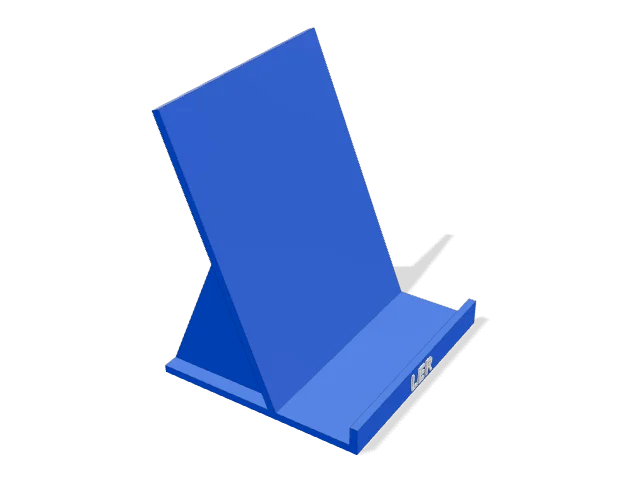
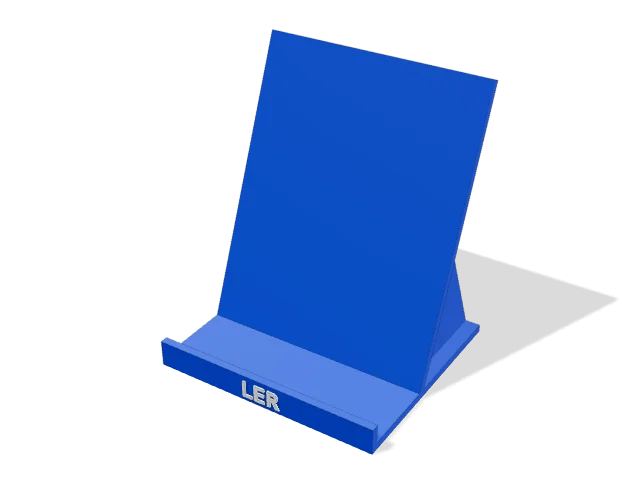
feat: modelos novos: E2E com prints, miniaturas, família Suporte de livro, CHANGELOG (#213)

diff --git a/tests/e2e/modelos-novos.e2e.ts b/tests/e2e/modelos-novos.e2e.ts
@@ -1,0 +1,91 @@
+import AxeBuilder from "@axe-core/playwright";
+import { mkdirSync } from "node:fs";
+import type { Page } from "@playwright/test";
+import { expect, go, openApp, test, toastWith } from "./tauri";
+
+const hud = (page: Page) => page.locator(".viewer .hud");
+const idle = (page: Page) => expect(page.locator(".viewer .overlay.busy")).toHaveCount(0, { timeout: 60_000 });
+const PRINTS = process.env.MODELOS_PRINTS;
+async function shot(page: Page, name: string) {
+  if (!PRINTS) return;
+  mkdirSync(PRINTS, { recursive: true });
+  await page.screenshot({ path: `${PRINTS}/${name}.png` });
+}
+async function open(page: Page, query: string, label: string) {
+  await go(page, "Modelos prontos");
+  await page.getByRole("searchbox", { name: "Buscar modelo" }).fill(query);
+  await page.getByRole("group", { name: "Modelo" }).getByRole("button", { name: label, exact: true }).click();
+  await idle(page);
+  await expect(hud(page)).toContainText("mm", { timeout: 60_000 });
+}
+
+test.beforeEach(async ({ page }) => {
+  await page.emulateMedia({ reducedMotion: "reduce" }); // a câmera não desliza nem gira: o print sai no enquadramento final
+  await page.setViewportSize({ width: 1280, height: 900 });
+  await openApp(page);
+});
+
+test("chaveiro halter: variações prontas e 3MF", async ({ page, tauri }) => {
+  await open(page, "halter", "Chaveiro halter");
+  await expect(page.locator(".viewer .legend span")).toHaveCount(3); // anilhas, barra e texto
+  await shot(page, "01-halter");
+  await page.getByRole("button", { name: "Rosa" }).click();
+  await idle(page);
+  await shot(page, "02-halter-rosa");
+  await page.getByRole("button", { name: /Salvar 3MF/ }).click();
+  await expect(toastWith(page, "Arquivo salvo em")).toBeVisible();
+  expect([...tauri.files.keys()].some((p) => p.endsWith(".3mf"))).toBe(true);
+
+});
+
+test("chaveiro kettlebell: variações prontas", async ({ page }) => {
+  await open(page, "kettlebell", "Chaveiro kettlebell");
+  await expect(page.locator(".viewer .legend span")).toHaveCount(2);
+  await shot(page, "03-kettlebell");
+  await page.getByRole("button", { name: "24 KG" }).click();
+  await idle(page);
+  await shot(page, "04-kettlebell-24");
+});
+
+test("clipe de papel: cabeça com texto, tamanho pequeno e 3MF", async ({ page }) => {
+  await open(page, "clipe", "Clipe de papel");
+  await expect(page.locator(".viewer .legend span")).toHaveCount(2);
+  await shot(page, "05-clipe-de-papel");
+  await page.getByRole("button", { name: "Pequeno" }).click();
+  await idle(page);
+  await expect(page.getByRole("button", { name: /Salvar 3MF/ })).toBeEnabled();
+  await page.getByRole("button", { name: "Mãe", exact: true }).click();
+  await idle(page);
+  await shot(page, "06-clipe-mae");
+});
+
+test("suportes de livro: apoio de polegar e suporte de mesa", async ({ page }) => {
+  await open(page, "polegar", "Apoio de polegar para livro");
+  await expect(page.locator(".viewer .legend span")).toHaveCount(3);
+  await shot(page, "07-apoio-de-polegar");
+  await page.getByRole("button", { name: "Criança" }).click();
+  await idle(page);
+  await shot(page, "08-apoio-crianca");
+
+});
+
+test("suporte de livro de mesa: variações prontas e família com as duas variações", async ({ page }) => {
+  await open(page, "livro", "Suporte de livro de mesa");
+  await expect(page.locator(".viewer .legend span")).toHaveCount(2);
+  await shot(page, "09-suporte-de-livro");
+  await page.getByRole("button", { name: "Receitas" }).click();
+  await idle(page);
+  await shot(page, "10-suporte-receitas");
+  // a família mostra as duas variações
+  await expect(page.getByRole("group", { name: /Variação|Tipo/ }).first()).toBeVisible();
+});
+
+for (const scheme of ["light", "dark"] as const)
+  test(`modelos novos: sem violação de acessibilidade (axe), tema ${scheme}`, async ({ page }) => {
+    await page.emulateMedia({ colorScheme: scheme });
+    for (const [q, l] of [["halter", "Chaveiro halter"], ["kettlebell", "Chaveiro kettlebell"], ["clipe", "Clipe de papel"], ["polegar", "Apoio de polegar para livro"], ["livro", "Suporte de livro de mesa"]] as const) {
+      await open(page, q, l);
+      const r = await new AxeBuilder({ page }).include("main").exclude("canvas").withTags(["wcag2a", "wcag2aa", "wcag21a", "wcag21aa", "wcag22aa"]).disableRules(["color-contrast"]).analyze();
+      expect(r.violations.map((v) => `${l}: ${v.id}: ${v.nodes.slice(0, 2).map((n) => n.target.join(" ")).join(" | ")}`)).toEqual([]);
+    }
+  });

diff --git a/src/geometry/models/bookHolder.test.ts b/src/geometry/models/bookHolder.test.ts
@@ -19,15 +19,15 @@ beforeAll(async () => {
 });
 const solid = (m: Mesh): Solid => M.Manifold.ofMesh(new M.Mesh({ numProp: 3, vertProperties: m.positions, triVerts: m.indices }));
 
-/** Centro de massa (x) de uma malha fechada, pela soma de tetraedros. */
-function centroidX(m: Mesh): number {
+/** Centro de massa (y) de uma malha fechada, pela soma de tetraedros. */
+function centroidY(m: Mesh): number {
   let v = 0, cx = 0;
   const p = m.positions;
   for (let i = 0; i < m.indices.length; i += 3) {
     const [a, b, c] = [m.indices[i] * 3, m.indices[i + 1] * 3, m.indices[i + 2] * 3];
     const vol = (p[a] * (p[b + 1] * p[c + 2] - p[b + 2] * p[c + 1]) - p[a + 1] * (p[b] * p[c + 2] - p[b + 2] * p[c]) + p[a + 2] * (p[b] * p[c + 1] - p[b + 1] * p[c])) / 6;
     v += vol;
-    cx += (vol * (p[a] + p[b] + p[c])) / 4;
+    cx += (vol * (p[a + 1] + p[b + 1] + p[c + 1])) / 4;
   }
   return cx / v;
 }
@@ -70,8 +70,8 @@ describe("suporte de livro de mesa (#213)", () => {
     expect(body.decompose()).toHaveLength(1);
     const b = body.boundingBox();
     expect(b.min[2]).toBeCloseTo(0, 6);
-    expect(b.max[1] - b.min[1]).toBeCloseTo(p.width, 2);
-    expect(b.min[1] + b.max[1]).toBeCloseTo(0, 3); // centrado
+    expect(b.max[0] - b.min[0]).toBeCloseTo(p.width, 2); // a largura corre em x; a frente aponta para −y
+    expect(b.min[0] + b.max[0]).toBeCloseTo(0, 3); // centrado
   });
 
   test("o apoio inclina para trás no ângulo pedido e o vão do livro tem a espessura pedida", () => {
@@ -81,22 +81,22 @@ describe("suporte de livro de mesa (#213)", () => {
     const dx = g.along(p.height)[0] - g.foot[0], dz = g.along(p.height)[1] - g.foot[1];
     expect((Math.atan2(dx, dz) * 180) / Math.PI).toBeCloseTo(p.tilt, 3);
     // vão livre entre o batente e o apoio, na altura da base: o livro grosso máximo passa
-    const livro = M.Manifold.cube([p.thick - 0.2, p.width - 20, 6], false).translate([-4.1 - (p.thick - 0.2), -(p.width - 20) / 2, p.plate]); // a frente aponta para +x
+    const livro = M.Manifold.cube([p.width - 20, p.thick - 0.2, 6], false).translate([-(p.width - 20) / 2, 4.1, p.plate]);
     expect(body.intersect(livro).volume()).toBeCloseTo(0, 3);
   });
 
   test("não tomba: o centro de massa fica sobre a base", () => {
     const g = bookStandProfile(p);
-    const cx = centroidX(buildBookStand(ctx, p).models[0].parts[0].mesh);
-    expect(-cx).toBeGreaterThan(g.foot[0] - 20); // frente em +x: a base vai de 0 a −baseLen
-    expect(-cx).toBeLessThan(g.baseLen);
+    const cy = centroidY(buildBookStand(ctx, p).models[0].parts[0].mesh);
+    expect(cy).toBeGreaterThan(g.foot[0] - 20); // a base vai de y = 0 (batente) a y = baseLen
+    expect(cy).toBeLessThan(g.baseLen);
   });
 
   test("o texto fica em relevo na frente do batente, sem entrar nele", () => {
     const { models } = buildBookStand(ctx, p);
     const t = meshBounds([models[0].parts[1].mesh])!;
-    expect(t.min[0]).toBeCloseTo(0, 3);
-    expect(t.max[0]).toBeCloseTo(p.relief, 3);
+    expect(t.max[1]).toBeCloseTo(0, 3);
+    expect(t.min[1]).toBeCloseTo(-p.relief, 3);
     expect(t.max[2]).toBeLessThanOrEqual(p.lip);
     expect(solid(models[0].parts[0].mesh).intersect(solid(models[0].parts[1].mesh)).volume()).toBeCloseTo(0, 3);
   });

diff --git a/src/geometry/models/bookHolder.ts b/src/geometry/models/bookHolder.ts
@@ -83,7 +83,7 @@ export function bookStandProfile(p: Pick<BookStandParams, "thick" | "height" | "
   return { foot, along, baseLen, top: along(p.height, p.plate) };
 }
 
-/** Suporte de mesa: base com batente, apoio inclinado e duas nervuras atrás; o texto fica em relevo na frente do batente. Sai virado 180° em z: a frente (batente e texto) aponta para +x, para a câmera padrão. */
+/** Suporte de mesa: base com batente, apoio inclinado e duas nervuras atrás; o texto fica em relevo na frente do batente. Sai girado 90° em z: a frente (batente e texto) aponta para −y, de frente para a câmera padrão da prévia; a largura corre em x. */
 export function buildBookStand(ctx: ModelCtx, p: BookStandParams): ModelOutput {
   const { M, text, art } = ctx;
   const g = bookStandProfile(p);
@@ -100,8 +100,8 @@ export function buildBookStand(ctx: ModelCtx, p: BookStandParams): ModelOutput {
     const ribY = p.width / 2 - RIB_INSET - RIB_W / 2;
     const ribs = [sweep(rib, RIB_W, ribY), sweep(rib, RIB_W, -ribY)];
     const whole = k(M.Manifold.union([body, ...ribs]));
-    // de frente para a câmera padrão da prévia: o batente com o texto aparece, não as costas do apoio (a impressão não muda)
-    const parts = [{ name: "Suporte", color: p.bodyColor, mesh: solidMesh(k(whole.rotate([0, 0, 180]))) }];
+    // girado 90° em z: a frente (batente com o texto) aponta para −y, de frente para a câmera padrão da prévia (a impressão não muda)
+    const parts = [{ name: "Suporte", color: p.bodyColor, mesh: solidMesh(k(whole.rotate([0, 0, 90]))) }];
     const src = art ?? (() => { const t = text(p.text, 100); return t && k(t); })();
     if (src) {
       const w = p.width - 24, h = Math.max(4, p.lip - 5);
@@ -109,7 +109,7 @@ export function buildBookStand(ctx: ModelCtx, p: BookStandParams): ModelOutput {
       // texto no plano do batente: x local → direita de quem lê (−y), y local → z, extrusão → −x (para quem lê)
       const slabX = k(fitted.extrude(p.relief));
       const placed = k(slabX.transform([0, -1, 0, 0, 0, 0, 1, 0, -1, 0, 0, 0, 0, 0, 0, 1]));
-      parts.push({ name: "Texto", color: p.textColor, mesh: solidMesh(k(placed.rotate([0, 0, 180]))) });
+      parts.push({ name: "Texto", color: p.textColor, mesh: solidMesh(k(placed.rotate([0, 0, 90]))) });
     }
     return { models: [{ name: "Suporte de livro", parts }] };
   });

diff --git a/docs/QA-modelos.md b/docs/QA-modelos.md
@@ -23,7 +23,7 @@ Peça maior que a mesa de 256 mm do A1 conta como **aviso** quando o app avisa n
 impressoras de mesa maior); sem o aviso do app, é **falha**.
 
 
-**Total:** 328 casos · 241 ok · 86 com aviso · 1 com falha · 0 n/a
+**Total:** 344 casos · 255 ok · 89 com aviso · 0 com falha · 0 n/a
 
 ## Forja
 
@@ -43,6 +43,12 @@ impressoras de mesa maior); sem o aviso do app, é **falha**.
 | Clicker (clicker) | máximo | ✅ ok | Bambu ✓ · Orca ✓ · Projeto Bambu ✓ | 78 | 21,3 | 1 | – | app: Encaixe feito para chave tipo Cherry MX (e compatíveis). Imprima a chapa e a cruz primeiro: se ficar justo, aumente as folgas.; app: A chave entra por cima na chapa do corpo; a tecla encaixa na haste. |
 | Clicker (clicker) | mínimo | ✅ ok | Bambu ✓ · Orca ✓ · Projeto Bambu ✓ | 67 | 18,7 | 1 | – | app: Encaixe feito para chave tipo Cherry MX (e compatíveis). Imprima a chapa e a cruz primeiro: se ficar justo, aumente as folgas.; app: A chave entra por cima na chapa do corpo; a tecla encaixa na haste. |
 | Clicker (clicker) | padrão | ✅ ok | Bambu ✓ · Orca ✓ · Projeto Bambu ✓ | 72 | 20,0 | 1 | – | app: Encaixe feito para chave tipo Cherry MX (e compatíveis). Imprima a chapa e a cruz primeiro: se ficar justo, aumente as folgas.; app: A chave entra por cima na chapa do corpo; a tecla encaixa na haste. |
+| Chaveiro halter (gymDumbbell) | máximo | ✅ ok | Bambu ✓ · Orca ✓ · Projeto Bambu ✓ | 90 | 28,2 | 1 | – | – |
+| Chaveiro halter (gymDumbbell) | mínimo | ✅ ok | Bambu ✓ · Orca ✓ · Projeto Bambu ✓ | 31 | 7,6 | 1 | – | – |
+| Chaveiro halter (gymDumbbell) | padrão | ✅ ok | Bambu ✓ · Orca ✓ · Projeto Bambu ✓ | 53 | 14,1 | 1 | – | – |
+| Chaveiro kettlebell (gymKettlebell) | máximo | ✅ ok | Bambu ✓ · Orca ✓ · Projeto Bambu ✓ | 28 | 19,1 | 1 | – | – |
+| Chaveiro kettlebell (gymKettlebell) | mínimo | ✅ ok | Bambu ✓ · Orca ✓ · Projeto Bambu ✓ | 8 | 3,3 | 1 | – | – |
+| Chaveiro kettlebell (gymKettlebell) | padrão | ✅ ok | Bambu ✓ · Orca ✓ · Projeto Bambu ✓ | 12 | 6,3 | 1 | – | – |
 | Chaveiro anilha (gymKeychain) | máximo | ✅ ok | Bambu ✓ · Orca ✓ · Projeto Bambu ✓ | 45 | 19,2 | 1 | – | – |
 | Chaveiro anilha (gymKeychain) | mínimo | ✅ ok | Bambu ✓ · Orca ✓ · Projeto Bambu ✓ | 8 | 2,7 | 1 | – | – |
 | Chaveiro anilha (gymKeychain) | padrão | ✅ ok | Bambu ✓ · Orca ✓ · Projeto Bambu ✓ | 18 | 6,9 | 1 | – | – |
@@ -67,6 +73,12 @@ impressoras de mesa maior); sem o aviso do app, é **falha**.
 | Chaveiro giratório (spinner) | máximo | ✅ ok | Bambu ✓ · Orca ✓ · Projeto Bambu ✓ | 93 | 31,6 | 1 | – | – |
 | Chaveiro giratório (spinner) | mínimo | ✅ ok | Bambu ✓ · Orca ✓ · Projeto Bambu ✓ | 40 | 10,2 | 1 | – | – |
 | Chaveiro giratório (spinner) | padrão | ✅ ok | Bambu ✓ · Orca ✓ · Projeto Bambu ✓ | 51 | 14,2 | 1 | – | – |
+| Suporte de livro de mesa (bookStand) | máximo | ⚠ aviso | Bambu ✓ · Orca ✓ · Projeto Bambu ✓ | – | – | – | – | Bambu: torre de purga em cima de uma peça depois do --arrange do CLI (na tela, arraste a torre ou use Arrumar); Orca: torre de purga em cima de uma peça depois do --arrange do CLI (na tela, arraste a torre ou use Arrumar); Projeto Bambu: torre de purga em cima de uma peça depois do --arrange do CLI (na tela, arraste a torre ou use Arrumar) |
+| Suporte de livro de mesa (bookStand) | mínimo | ✅ ok | Bambu ✓ · Orca ✓ · Projeto Bambu ✓ | 100 | 44,5 | 1 | – | – |
+| Suporte de livro de mesa (bookStand) | padrão | ✅ ok | Bambu ✓ · Orca ✓ · Projeto Bambu ✓ | 242 | 147,9 | 1 | – | – |
+| Apoio de polegar para livro (bookThumb) | máximo | ✅ ok | Bambu ✓ · Orca ✓ · Projeto Bambu ✓ | 62 | 27,6 | 1 | – | – |
+| Apoio de polegar para livro (bookThumb) | mínimo | ✅ ok | Bambu ✓ · Orca ✓ · Projeto Bambu ✓ | 22 | 6,6 | 1 | – | – |
+| Apoio de polegar para livro (bookThumb) | padrão | ✅ ok | Bambu ✓ · Orca ✓ · Projeto Bambu ✓ | 33 | 12,0 | 1 | – | – |
 | Medalha adaptável (adaptiveMedal) | máximo | ✅ ok | Bambu ✓ · Orca ✓ · Projeto Bambu ✓ | 78 | 67,8 | 1 | – | – |
 | Medalha adaptável (adaptiveMedal) | mínimo | ✅ ok | Bambu ✓ · Orca ✓ · Projeto Bambu ✓ | 9 | 4,0 | 1 | – | – |
 | Medalha adaptável (adaptiveMedal) | padrão | ✅ ok | Bambu ✓ · Orca ✓ · Projeto Bambu ✓ | 19 | 11,7 | 1 | – | – |
@@ -265,6 +277,9 @@ impressoras de mesa maior); sem o aviso do app, é **falha**.
 | Cumbuca no contorno (outlineBowl) | máximo | ✅ ok | Bambu ✓ · Orca ✓ · Projeto Bambu ✓ | 781 | 530,5 | 1 | – | – |
 | Cumbuca no contorno (outlineBowl) | mínimo | ✅ ok | Bambu ✓ · Orca ✓ · Projeto Bambu ✓ | 11 | 2,5 | 1 | – | – |
 | Cumbuca no contorno (outlineBowl) | padrão | ✅ ok | Bambu ✓ · Orca ✓ · Projeto Bambu ✓ | 54 | 33,8 | 1 | – | – |
+| Clipe de papel (paperClip) | máximo | ✅ ok | Bambu ✓ · Orca ✓ · Projeto Bambu ✓ | 22 | 10,9 | 1 | – | – |
+| Clipe de papel (paperClip) | mínimo | ✅ ok | Bambu ✓ · Orca ✓ · Projeto Bambu ✓ | 5 | 1,6 | 1 | – | – |
+| Clipe de papel (paperClip) | padrão | ✅ ok | Bambu ✓ · Orca ✓ · Projeto Bambu ✓ | 8 | 3,2 | 1 | – | – |
 | Porta-caneta (pen) | máximo | ✅ ok | Bambu ✓ · Orca ✓ · Projeto Bambu ✓ | 687 | 430,1 | 1 | – | – |
 | Porta-caneta (pen) | mínimo | ✅ ok | Bambu ✓ · Orca ✓ · Projeto Bambu ✓ | 82 | 26,3 | 1 | – | – |
 | Porta-caneta (pen) | padrão | ✅ ok | Bambu ✓ · Orca ✓ · Projeto Bambu ✓ | 197 | 106,6 | 1 | – | – |
@@ -343,7 +358,8 @@ impressoras de mesa maior); sem o aviso do app, é **falha**.
 | Letreiro em camadas (layeredSign) | máximo | ⚠ aviso | Bambu ✓ · Orca ✓ · Projeto Bambu ✓ | – | – | – | – | o conjunto arrumado ocupa 854,9 × 231,9 mm: passa da mesa de 256 mm; "Letreiro" não cabe na mesa de 256 mm (830,9 × 179,9 × 15,0 mm); "Moldura" não cabe na mesa de 256 mm (854,9 × 203,9 × 12,0 mm); "Suporte" não cabe na mesa de 256 mm (581,7 × 30,0 × 12,0 mm); Bambu recusa na mesa de 256 mm do A1 (o app avisa); Orca recusa na mesa de 256 mm do A1 (o app avisa); Projeto Bambu recusa na mesa de 256 mm do A1 (o app avisa); app: O letreiro tem 831 × 180 mm: passa da mesa de 256 mm. Diminua as alturas das linhas. |
 | Letreiro em camadas (layeredSign) | mínimo | ⚠ aviso | Bambu ✓ · Orca ✓ · Projeto Bambu ✓ | 39 | 15,7 | 1 | – | Orca: torre de purga passa da mesa na posição padrão do CLI (na tela, arraste a torre ou use Arrumar); Projeto Bambu: torre de purga passa da mesa na posição padrão do CLI (na tela, arraste a torre ou use Arrumar) |
 | Letreiro em camadas (layeredSign) | padrão | ⚠ aviso | Bambu ✓ · Orca ✓ · Projeto Bambu ✓ | 162 | 83,4 | 1 | – | Orca: torre de purga em cima de uma peça depois do --arrange do CLI (na tela, arraste a torre ou use Arrumar); Projeto Bambu: torre de purga passa da mesa na posição padrão do CLI (na tela, arraste a torre ou use Arrumar) |
-| Letras para parede (wallLetters) | máximo | ❌ falha | Bambu ✗ · Orca ✗ · Projeto Bambu ✗ | – | – | – | – | Bambu: Bambu Studio: Some objects are located over the boundary of the heated bed. (código -52); Orca: OrcaSlicer: Some objects are located over the boundary of the heated bed. (código -52); Projeto Bambu: Bambu Studio: Some objects are located over the boundary of the heated bed. (código -52); o conjunto arrumado ocupa 3905,4 × 1600,0 mm: passa da mesa de 256 mm; app: 5 letra(s) passam da mesa de 256 mm e saíram em partes: una com cola e um pedaço de filamento de 1,75 mm nos furos.; app: Gabarito: cole a tira na parede com fita, alinhe cada letra entre os riscos dela e retire a tira depois. |
+| Letras para parede (wallLetters) | FESTA 600 mm (muitas partes) | ⚠ aviso | Bambu ✓ · Orca ✓ · Projeto Bambu ✓ | – | – | – | – | o conjunto arrumado ocupa 2327,2 × 958,0 mm: passa da mesa de 256 mm; Bambu: torre de purga em cima de uma peça depois do --arrange do CLI (na tela, arraste a torre ou use Arrumar); Orca: torre de purga em cima de uma peça depois do --arrange do CLI (na tela, arraste a torre ou use Arrumar); Projeto Bambu: torre de purga em cima de uma peça depois do --arrange do CLI (na tela, arraste a torre ou use Arrumar); app: 5 letra(s) passam da mesa de 256 mm e saíram em partes: una com cola e um pedaço de filamento de 1,75 mm nos furos.; app: Gabarito: cole a tira na parede com fita, alinhe cada letra entre os riscos dela e retire a tira depois. |
+| Letras para parede (wallLetters) | máximo | ⚠ aviso | Bambu ✓ · Orca ✓ · Projeto Bambu ✓ | – | – | – | – | o conjunto arrumado ocupa 3905,4 × 1600,0 mm: passa da mesa de 256 mm; Bambu recusa: mais mesas que o limite de um projeto (o app avisa e sugere lotes); Orca recusa: mais mesas que o limite de um projeto (o app avisa e sugere lotes); Projeto Bambu recusa: mais mesas que o limite de um projeto (o app avisa e sugere lotes); app: 5 letra(s) passam da mesa de 256 mm e saíram em partes: una com cola e um pedaço de filamento de 1,75 mm nos furos.; app: Gabarito: cole a tira na parede com fita, alinhe cada letra entre os riscos dela e retire a tira depois.; app: São 83 peças, umas 62 mesas de 256 mm: mais que as 36 que o Bambu Studio e o OrcaSlicer aceitam num projeto. Salve e imprima em lotes (por exemplo, uma ou duas letras de cada vez) ou diminua a altura ou o texto. |
 | Letras para parede (wallLetters) | mínimo | ✅ ok | Bambu ✓ · Orca ✓ · Projeto Bambu ✓ | 33 | 16,0 | 1 | – | app: Gabarito: cole a tira na parede com fita, alinhe cada letra entre os riscos dela e retire a tira depois. |
 | Letras para parede (wallLetters) | padrão | ⚠ aviso | Bambu ✓ · Orca ✓ · Projeto Bambu ✓ | – | – | – | – | o conjunto arrumado ocupa 1167,6 × 483,0 mm: passa da mesa de 256 mm; Bambu: torre de purga em cima de uma peça depois do --arrange do CLI (na tela, arraste a torre ou use Arrumar); Orca: torre de purga em cima de uma peça depois do --arrange do CLI (na tela, arraste a torre ou use Arrumar); Projeto Bambu: torre de purga em cima de uma peça depois do --arrange do CLI (na tela, arraste a torre ou use Arrumar); app: 5 letra(s) passam da mesa de 256 mm e saíram em partes: una com cola e um pedaço de filamento de 1,75 mm nos furos.; app: Gabarito: cole a tira na parede com fita, alinhe cada letra entre os riscos dela e retire a tira depois. |
 | Peça com janela (shaker) (windowFrame) | máximo | ⚠ aviso | Bambu ✓ · Orca ✓ · Projeto Bambu ✓ | 180 | 161,9 | 1 | 15,24 | o conjunto arrumado ocupa 200,0 × 308,0 mm: passa da mesa de 256 mm; "Janela" não cabe na mesa de 256 mm (200,0 × 260,0 × 18,3 mm); Orca: torre de purga em cima de uma peça depois do --arrange do CLI (na tela, arraste a torre ou use Arrumar); Projeto Bambu: torre de purga em cima de uma peça depois do --arrange do CLI (na tela, arraste a torre ou use Arrumar); app: Pausa em 15.36 mm: coloque o glitter na câmara, deslize a folha de acetato na ranhura e continue.; app: "Janela" tem 200 × 260 × 18 mm e passa da mesa de 256 mm: diminua o tamanho. |

diff --git a/CHANGELOG.md b/CHANGELOG.md
@@ -3,6 +3,9 @@
 Cada versão aparece para a usuária na tela "O que há de novo" depois da atualização.
 Formato: `## <versão> — <data>` e itens `- …` em linguagem simples.
 
+## Próxima versão (ainda não lançada)
+- **Chaveiros halter e kettlebell, clipe de papel e suportes de livro (#213)**: cinco modelos novos em Modelos prontos, no padrão da galeria (variações prontas, cores por parte, prévia, miniatura e 3MF multicor). O **chaveiro de academia** ganhou o **halter** (anilhas em degraus, barra com argola e o peso em relevo) e a **kettlebell** (corpo com a alça vazada, que já serve de argola), ao lado da anilha. O **clipe de papel** é um clipe chato no formato do de arame, com uma cabeça de texto ou desenho (até 65 mm) e a fita regulável, em PLA ou PETG; entra junto do marca-página. O **apoio de polegar** é o anel que prende a página aberta com uma mão só, com o furo na medida do seu polegar (22 mm criança, 25 mm adulto) e o nome na aba; o **suporte de livro de mesa** é um cavalete inclinado com batente para livro de receitas, caderno ou tablet, com a espessura do livro, a altura e a inclinação à sua escolha e o nome na frente. Todos saem sem suporte de impressão
+
 ## 0.12.5 — 2026-10-15
 - **Corte parcial**: nova ferramenta que corta só um pedaço de um STL ou 3MF, sem o plano atravessar a peça inteira como no fatiador. Você escolhe a direção, a posição e a inclinação do plano e limita o corte a uma região: caixa, cilindro (cabeça, braço, galho) ou esfera, que você arrasta direto na vista 3D pelas alças ou ajusta nos controles. Ao escolher cilindro ou esfera, ou ao clicar numa parte, a região já envolve a parte inteira, e o app avisa se ela corta a peça pelo lado. Dá para fazer vários cortes no mesmo arquivo, escolher o filamento de cada pedaço (cada objeto abre no extrusor certo no fatiador) e ver o peso e o tempo de cada peça. Pino ou furo na face cortada com tamanho e posição automáticos, sempre escondido dentro das duas peças. Botões de vista (frente, lado, cima, 3/4), cada peça na cor que vai para o arquivo e afastável na prévia, plano translúcido e região tracejada, uma análise que sugere onde cortar para imprimir com menos suporte (braços e abas no ar), saídas na hora quando o pino não cabe (pino fixo menor ou colar sem pino), reparo automático de furos na malha e peças grandes (centenas de milhares de triângulos) calculadas sem travar a tela, e o 3MF sai com resto, pedaços (deitados na face cortada) e pinos, conferidos como sólidos fechados que somam o volume original
 - **Atualizações de segurança por baixo do capô**: bibliotecas de rede e de build atualizadas (sem mudança no que você vê) e um aviso novo para o desenvolvimento, que pega ações que falham em silêncio.
